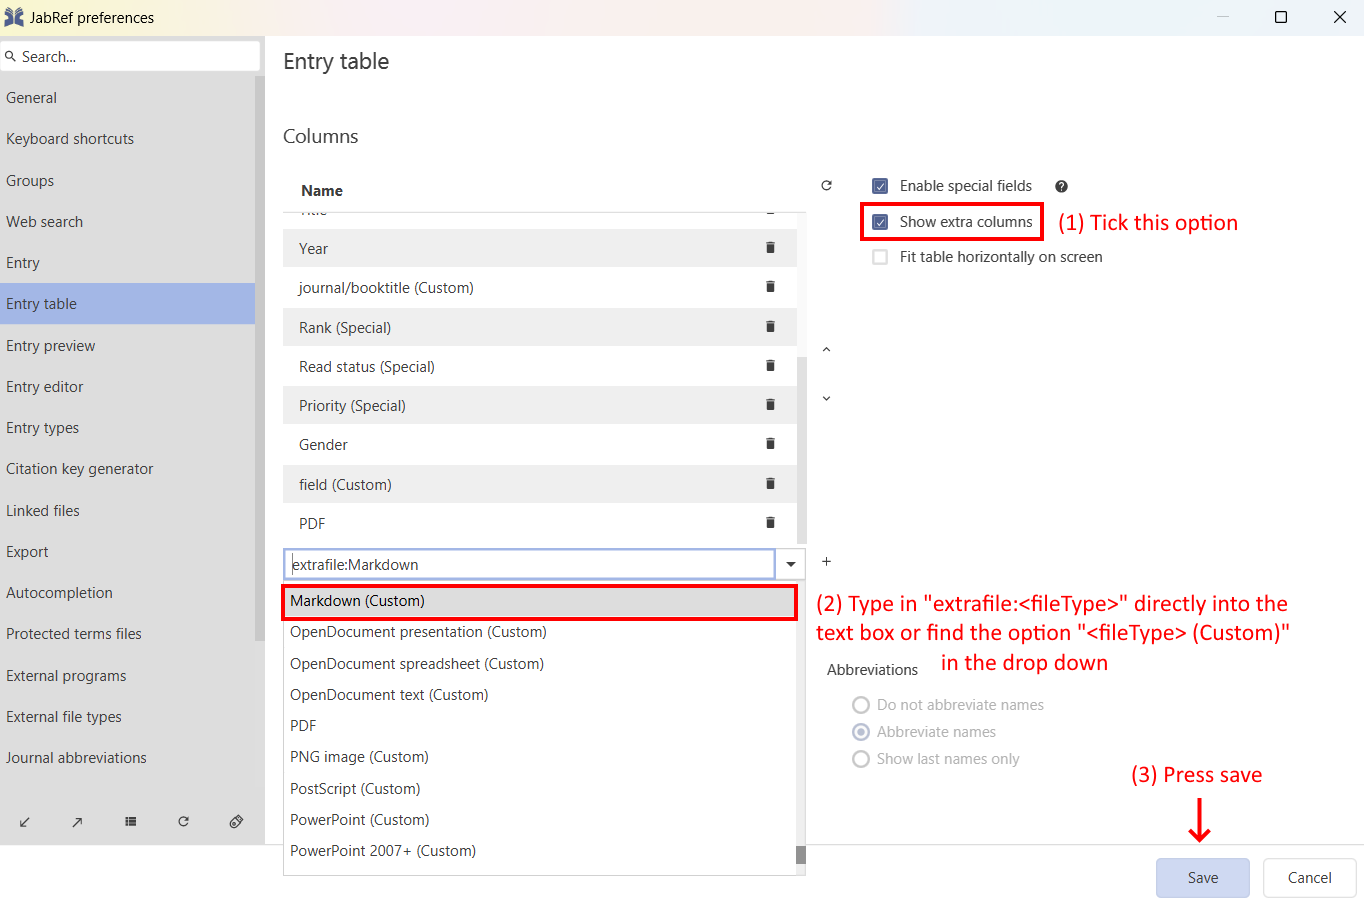
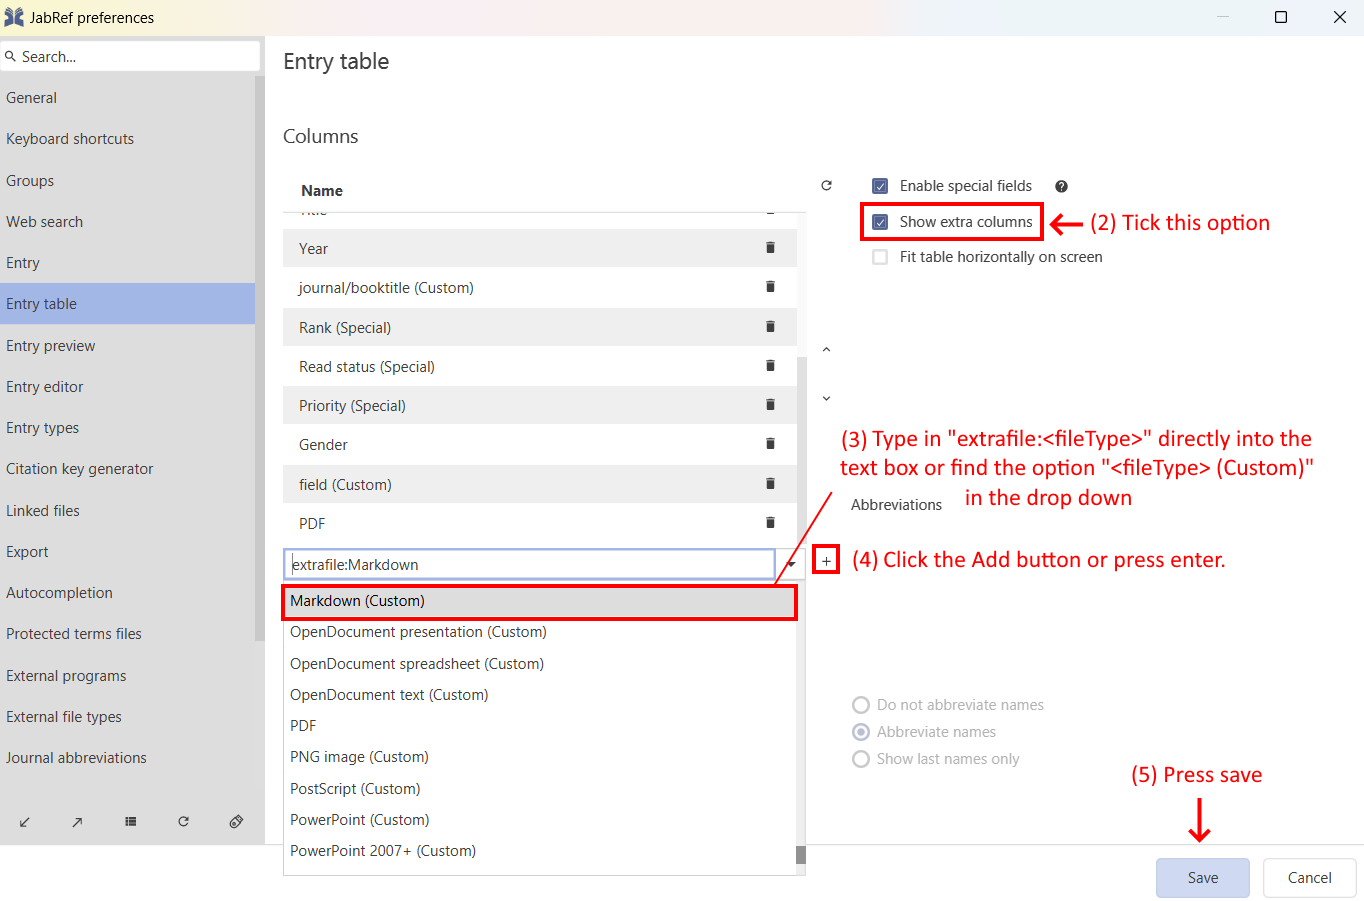
Made all requested changes

Changed region(s): [[0.585, 0.5594, 0.9545, 0.7458], [0.6158, 0.4661, 0.9545, 0.5594], [0.7698, 0.2175, 0.9238, 0.2797]]

diff --git a/en/finding-sorting-and-cleaning-entries/filelinks.md b/en/finding-sorting-and-cleaning-entries/filelinks.md
@@ -89,12 +89,24 @@ In general, there is no need to change the settings of external file types. So, 
 
 ## Adding additional columns to entry table for file types
 
-You can add extra columns to the entry table for storing linked files of a specific type, e.g. a column specifically for Markdown files which you use to write comments about particular entries. This can help you organise your linked files.
+You can add extra columns to the entry table for storing linked files of a specific type. For instance, one might store longer comments in an external Markdown file. One wants to show the presence of this Markdown file using an extra column. This can be done with many other file types too such as Excel/XLSX, PNG, PowerPoint, etc.
 
-To add a specific column, navigate to **File > Preferences > Entry Table**. This will show the dialog box shown below. Tick the option for **Show Extra Columns**, and then either directly type in `extrafile:<fileType>` into the text box or enter the dropdown and find the option `<fileType> (Custom)`. Don't forget to click Save!
+To add a specific column, follow these steps:
 
-![Showing the entry table preferences option box](../.gitbook/assets/extrafile-column-1.png)
+1. Navigate to **File > Preferences > Entry Table**. This will show the dialog box shown below. 
 
-Then you may find the column on your entry table like so! (You may have to scroll right to find the column where you have added it, and drag it across to the position you desire).
+2. Tick the option for **Show Extra Columns**. 
 
-![Result after adding new file column](../.gitbook/assets/extrafile-column-2.png)
+3. Replacing "X" in the following with the name of the file type you want, either directly type in `extrafile:X` into the text box, or enter the dropdown menu and find the option `X (Custom)`. So for instance if you wanted a Markdown file column, type in `extrafile:Markdown` or click the `Markdown (Custom)` option in the dropdown.
+
+4. Click the "plus" button next to the text box or hit the Enter key. Your new entry will appear as a choice at the end of the combo box, and you can scroll down to find it. 
+
+5. Click Save and exit the dialog box.
+
+![Image showing how to navigate to the entry table preferences option box. Click "File" at the top, then "Preferences" in the resulting dropdown. Then click the "Entry Table" option on the left side within the dialogue (see next image).](../.gitbook/assets/extrafile-column-0.png)
+
+![Image showing the entry table preferences option box itself. Shows the dropdown in the middle of selecting Markdown (Custom). Other file column options shown in this image are OpenDocument Presentation (Custom), OpenDocument Spreadsheet (Custom), OpenDocument text (Custom), PNG Image (Custom), PostScript Image (Custom) and PowerPoint (Custom).](../.gitbook/assets/extrafile-column-1.png)
+
+Then you may find the column on your entry table like so! You may have to scroll right to find the column where you have added it, and drag it across to the position you desire.
+
+![Result after adding new file column. The column icon is a file icon, and so are the entries in that column.](../.gitbook/assets/extrafile-column-2.png)
